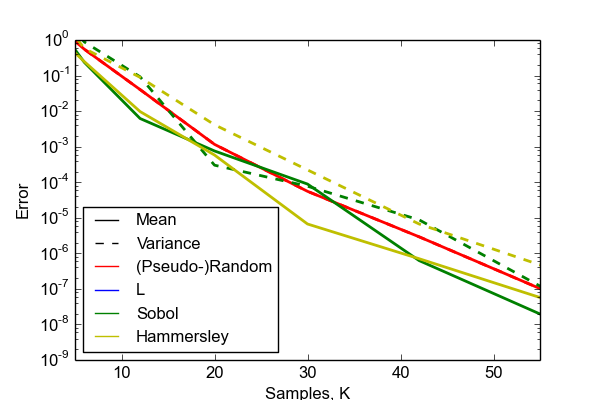
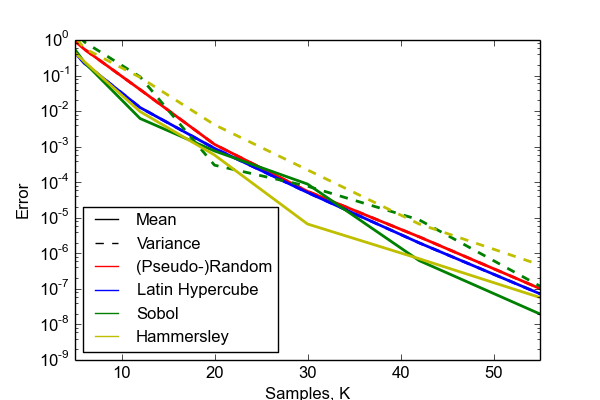
created L plots and updated lecture 2

diff --git a/lecture2.tex b/lecture2.tex
@@ -393,7 +393,7 @@ Smolyak sparse grid:
   \begin{alert}
       {Clenshaw-Curtis:}\\
       \scriptsize
-     \verb;cp.generate\_quadrature(l, dist, rule="C", growth=False);
+%      \verb;cp.generate\_quadrature(l, dist, rule="C", growth=False);
     \normalsize
   \begin{table}
   \begin{tabular}{lcccccccc}
@@ -407,7 +407,7 @@ Smolyak sparse grid:
   \begin{alert}
       {Nested Clenshaw-Curtis:}\\
       \scriptsize
-    \verb;cp.generate\_quadrature(l, dist, rule="C", growth=True);
+%     \verb;cp.generate\_quadrature(l, dist, rule="C", growth=True);
     \normalsize
   \begin{table}
   \begin{tabular}{lcccccccc}
@@ -651,21 +651,12 @@ U_hat = cp.fit_regression(P, nodes, solves)
      \begin{center}
                 \includegraphics[width=0.7\textwidth]{samples.png}
 
-                (Pseudo-)Random sampling, default:
+                (Pseudo-)Random sampling:
 
                 \scriptsize
                 \verb;nodes = dist.sample(100);
                 \normalsize
-                %\includegraphics[width=0.7\textwidth]{samples_L.png}
-
-                L sampling:
-
-                \scriptsize
-                \verb;nodes = dist.sample(100,"L");
-                \normalsize
-     \end{center}
-     \column{.5\textwidth}
-     \begin{center}
+                
                 \includegraphics[width=0.7\textwidth]{samples_M.png}
 
                 Hammersley sampling
@@ -674,6 +665,19 @@ U_hat = cp.fit_regression(P, nodes, solves)
                 \verb;nodes = dist.sample(100, "H");
                 \normalsize
                 
+     \end{center}
+     \column{.5\textwidth}
+     \begin{center}
+                  \includegraphics[width=0.7\textwidth]{samples_L.png}
+
+                Latin Hypercube sampling:
+
+                \scriptsize
+                \verb;nodes = dist.sample(100, "L");
+                \normalsize
+
+     
+		
                 \includegraphics[width=0.7\textwidth]{samples_S.png}
 
                 Sobol sampling

diff --git a/figures/convergence_collocation_compare.py b/figures/convergence_collocation_compare.py
@@ -34,7 +34,7 @@ pl.plot(-1,1, "r")
 pl.plot(-1,1, "b")
 pl.plot(-1,1, "g")
 pl.plot(-1,1, "y")
-pl.legend(["Mean","Variance","(Pseudo-)Random","L","Sobol","Hammersley"],loc=3,prop={"size" :12})
+pl.legend(["Mean","Variance","(Pseudo-)Random","Latin Hypercube","Sobol","Hammersley"],loc=3,prop={"size" :12})
 pl.rc("figure", figsize=[6,4])
 pl.xlim([5,55])
 pl.ylim([10**-9,10**0])
@@ -71,7 +71,7 @@ pl.plot(K, meanVar,"r--", linewidth=2)
 
 
 
-"""
+
 
 errorb = []
 varb=[]
@@ -82,7 +82,7 @@ for i in range(0,10):
     K = []
     for n in range(0,N):
         P = cp.orth_ttr(n, dist)
-        nodes = dist.sample(2*len(P), "L")
+        nodes = dist.sample(2*len(P), "LH")
         K.append(2*len(P))
         solves = [u(T, s[0], s[1]) for s in nodes.T]
         U_hat = cp.fit_regression(P, nodes, solves,rule="LS")
@@ -100,8 +100,6 @@ pl.plot(K,meanE,"b-", linewidth=2)
 pl.plot(K, meanVar,"b--", linewidth=2)
 
 
-
-"""
 
 
 
@@ -153,7 +151,7 @@ pl.yscale('log')
 #pl.title("Error in expectation value and variance ")
 #pl.legend(["Expectation value","Variance", "Expectation value, Hammersley","Variance, Hammersley"])
 pl.savefig("convergence_collocation_compare.png")
-"""
+
 
 
 pl.figure()
@@ -171,7 +169,7 @@ pl.ylabel("I")
 pl.savefig("samples_M.png")
 
 pl.figure()
-nodes = dist.sample(100, "L")
+nodes = dist.sample(100, "LH")
 pl.scatter(nodes[0],nodes[1])
 pl.xlabel("a")
 pl.ylabel("I")
@@ -183,7 +181,7 @@ pl.scatter(nodes[0],nodes[1])
 pl.xlabel("a")
 pl.ylabel("I")
 pl.savefig("samples_S.png")
-"""
+
 
 pl.show()
 
